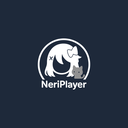
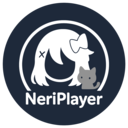
feat(desktop): 单实例唤起、设置页等高卡片、换用 round 图标
- 单实例：启动时若检测到已有实例（MPRIS 总线名），通过 Raise() 唤起
  已有窗口后退出当前进程，避免多开抢托盘/媒体控制
- 设置页：两列布局下各设置卡片 fillMaxHeight，消除行内顶对齐留白
- 图标：托盘与程序图标统一改用 ic_neriplayer_round.svg 重新生成

diff --git a/desktop/src/main/kotlin/moe/ouom/neriplayer/desktop/core/SingleInstance.kt b/desktop/src/main/kotlin/moe/ouom/neriplayer/desktop/core/SingleInstance.kt
@@ -1,0 +1,50 @@
+package moe.ouom.neriplayer.desktop.core
+
+import org.freedesktop.dbus.connections.impl.DBusConnectionBuilder
+import org.freedesktop.dbus.interfaces.DBus
+import java.util.concurrent.TimeUnit
+
+/**
+ * 单实例保证：启动时若已有 NeriPlayer 在跑，唤起它的窗口并退出当前进程。
+ *
+ * 用 MPRIS 的 well-known name 作为实例锁：它在 `AppContainer.bootstrap()` 里注册，
+ * 早于托盘，且标准 MPRIS 接口的 Raise() 正好就是「显示主窗口」。
+ * 第二个实例不加载音乐库、不连在线服务，直接通过 Raise() 唤起已有实例后退出。
+ */
+object SingleInstance {
+
+    /** @return true 表示本进程是唯一实例、可以正常启动；false 表示已唤起旧实例、本进程应退出。 */
+    fun acquire(): Boolean {
+        val conn = runCatching { DBusConnectionBuilder.forSessionBus().build() }.getOrElse {
+            // 没有会话总线（极简桌面/CI）时无法检测，放行，交给各模块自行降级
+            return true
+        }
+        return try {
+            val dbus = conn.getRemoteObject(
+                "org.freedesktop.DBus",
+                "/org/freedesktop/DBus",
+                DBus::class.java,
+                false,
+            )
+            if (!dbus.NameHasOwner(MPRIS_BUS_NAME)) {
+                true
+            } else {
+                println("[single-instance] 已有实例在运行，唤起其窗口")
+                runCatching {
+                    val remote = conn.getRemoteObject(
+                        MPRIS_BUS_NAME,
+                        MPRIS_OBJECT_PATH,
+                        MprisRootInterface::class.java,
+                        false,
+                    )
+                    remote.Raise()
+                    // 给对端一点时间处理 Raise，避免连接一断消息没送达
+                    TimeUnit.MILLISECONDS.sleep(200)
+                }.onFailure { println("[single-instance] 唤起已有实例失败：${it.message}") }
+                false
+            }
+        } finally {
+            runCatching { conn.disconnect() }
+        }
+    }
+}

diff --git a/desktop/src/main/kotlin/moe/ouom/neriplayer/desktop/ui/SyncSettings.kt b/desktop/src/main/kotlin/moe/ouom/neriplayer/desktop/ui/SyncSettings.kt
@@ -7,6 +7,7 @@ import androidx.compose.foundation.layout.Row
 import androidx.compose.foundation.layout.Spacer
 import androidx.compose.foundation.layout.fillMaxSize
 import androidx.compose.foundation.layout.fillMaxWidth
+import androidx.compose.foundation.layout.fillMaxHeight
 import androidx.compose.foundation.layout.height
 import androidx.compose.foundation.layout.width
 import androidx.compose.foundation.layout.padding
@@ -337,7 +338,7 @@ private fun SettingsSectionCard(
     content: @Composable () -> Unit,
 ) {
     androidx.compose.material3.Surface(
-        modifier = Modifier.fillMaxWidth().padding(horizontal = 12.dp, vertical = 6.dp),
+        modifier = Modifier.fillMaxWidth().fillMaxHeight().padding(horizontal = 12.dp, vertical = 6.dp),
         shape = androidx.compose.foundation.shape.RoundedCornerShape(20.dp),
         color = MaterialTheme.colorScheme.surfaceContainerLow,
     ) {

diff --git a/desktop/src/main/kotlin/moe/ouom/neriplayer/desktop/ui/FloatingLyricsSettings.kt b/desktop/src/main/kotlin/moe/ouom/neriplayer/desktop/ui/FloatingLyricsSettings.kt
@@ -9,6 +9,7 @@ import androidx.compose.foundation.layout.Column
 import androidx.compose.foundation.layout.Row
 import androidx.compose.foundation.layout.Spacer
 import androidx.compose.foundation.layout.fillMaxWidth
+import androidx.compose.foundation.layout.fillMaxHeight
 import androidx.compose.foundation.layout.height
 import androidx.compose.foundation.layout.padding
 import androidx.compose.foundation.layout.size
@@ -43,7 +44,7 @@ fun FloatingLyricsSettingsSection(
     val settings by container.settings.state.collectAsState()
 
     Surface(
-        modifier = Modifier.fillMaxWidth().padding(horizontal = 12.dp, vertical = 6.dp),
+        modifier = Modifier.fillMaxWidth().fillMaxHeight().padding(horizontal = 12.dp, vertical = 6.dp),
         shape = androidx.compose.foundation.shape.RoundedCornerShape(20.dp),
         color = MaterialTheme.colorScheme.surfaceContainerLow,
     ) {

diff --git a/desktop/src/main/kotlin/moe/ouom/neriplayer/desktop/ui/DownloadSettings.kt b/desktop/src/main/kotlin/moe/ouom/neriplayer/desktop/ui/DownloadSettings.kt
@@ -5,6 +5,7 @@ import androidx.compose.foundation.layout.Column
 import androidx.compose.foundation.layout.Row
 import androidx.compose.foundation.layout.Spacer
 import androidx.compose.foundation.layout.fillMaxWidth
+import androidx.compose.foundation.layout.fillMaxHeight
 import androidx.compose.foundation.layout.height
 import androidx.compose.foundation.layout.padding
 import androidx.compose.material3.FilterChip
@@ -35,7 +36,7 @@ fun DownloadSettingsSection(
     val directory = container.downloads.downloadDirectory()
 
     Surface(
-        modifier = Modifier.fillMaxWidth().padding(horizontal = 12.dp, vertical = 6.dp),
+        modifier = Modifier.fillMaxWidth().fillMaxHeight().padding(horizontal = 12.dp, vertical = 6.dp),
         shape = androidx.compose.foundation.shape.RoundedCornerShape(20.dp),
         color = MaterialTheme.colorScheme.surfaceContainerLow,
     ) {

diff --git a/desktop/src/main/kotlin/moe/ouom/neriplayer/desktop/ui/screens/SettingsScreen.kt b/desktop/src/main/kotlin/moe/ouom/neriplayer/desktop/ui/screens/SettingsScreen.kt
@@ -12,6 +12,7 @@ import androidx.compose.foundation.layout.Row
 import androidx.compose.foundation.layout.Spacer
 import androidx.compose.foundation.layout.fillMaxSize
 import androidx.compose.foundation.layout.fillMaxWidth
+import androidx.compose.foundation.layout.fillMaxHeight
 import androidx.compose.foundation.layout.height
 import androidx.compose.foundation.layout.padding
 import androidx.compose.foundation.layout.size
@@ -704,7 +705,7 @@ private fun SettingsSection(
 ) {
     var expanded by remember { mutableStateOf(true) }
     Surface(
-        modifier = Modifier.fillMaxWidth().padding(horizontal = 12.dp, vertical = 6.dp),
+        modifier = Modifier.fillMaxWidth().fillMaxHeight().padding(horizontal = 12.dp, vertical = 6.dp),
         shape = RoundedCornerShape(20.dp),
         color = MaterialTheme.colorScheme.surfaceContainerLow,
     ) {

diff --git a/desktop/src/main/kotlin/moe/ouom/neriplayer/desktop/ui/BackgroundSettings.kt b/desktop/src/main/kotlin/moe/ouom/neriplayer/desktop/ui/BackgroundSettings.kt
@@ -4,6 +4,7 @@ import androidx.compose.foundation.layout.Column
 import androidx.compose.foundation.layout.Row
 import androidx.compose.foundation.layout.Spacer
 import androidx.compose.foundation.layout.fillMaxWidth
+import androidx.compose.foundation.layout.fillMaxHeight
 import androidx.compose.foundation.layout.height
 import androidx.compose.foundation.layout.padding
 import androidx.compose.foundation.shape.RoundedCornerShape
@@ -39,7 +40,7 @@ fun BackgroundSettingsSection(
     }
 
     Surface(
-        modifier = Modifier.fillMaxWidth().padding(horizontal = 12.dp, vertical = 6.dp),
+        modifier = Modifier.fillMaxWidth().fillMaxHeight().padding(horizontal = 12.dp, vertical = 6.dp),
         shape = RoundedCornerShape(20.dp),
         color = MaterialTheme.colorScheme.surfaceContainerLow,
     ) {

diff --git a/desktop/src/main/kotlin/moe/ouom/neriplayer/desktop/Main.kt b/desktop/src/main/kotlin/moe/ouom/neriplayer/desktop/Main.kt
@@ -40,6 +40,10 @@ import moe.ouom.neriplayer.desktop.ui.platformUiScale
 import kotlinx.coroutines.delay
 
 fun main() {
+    // 单实例：若已有实例在跑，唤起它的窗口后直接退出，避免多开互相抢托盘/媒体控制
+    if (!moe.ouom.neriplayer.desktop.core.SingleInstance.acquire()) {
+        kotlin.system.exitProcess(0)
+    }
     setupDesktopLookAndFeel()
     val container = AppContainer()
     container.bootstrap()
